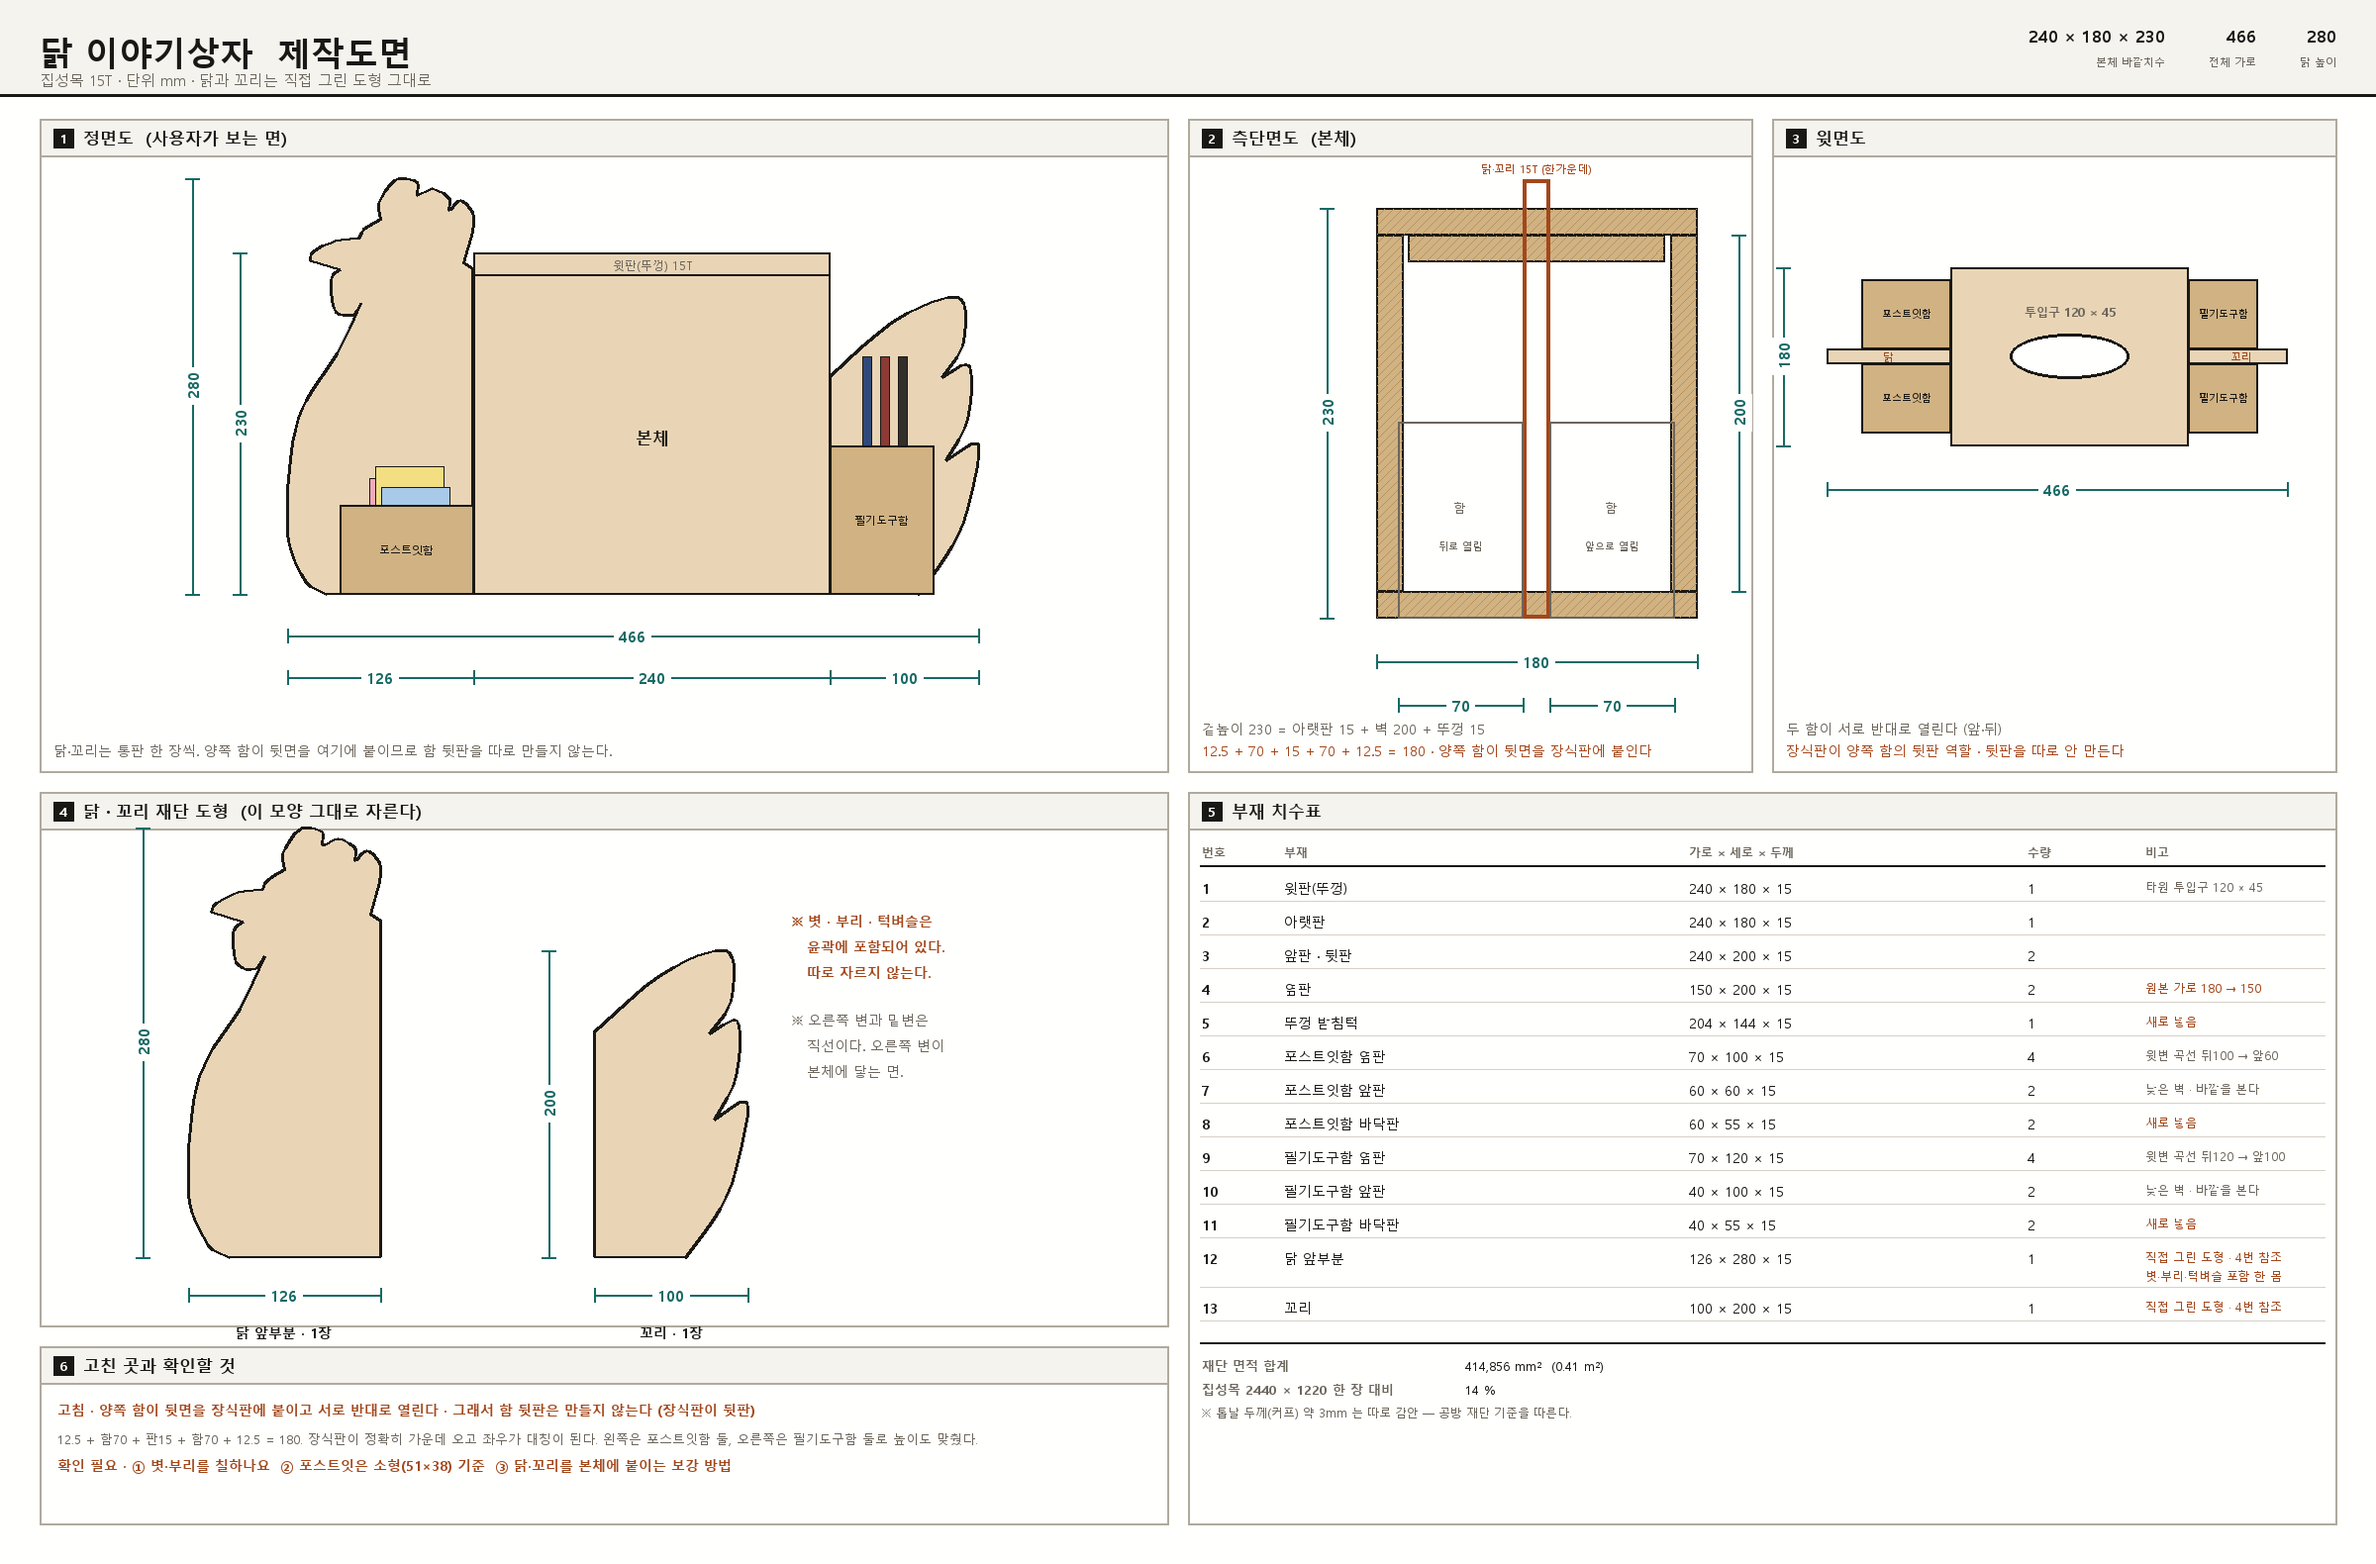
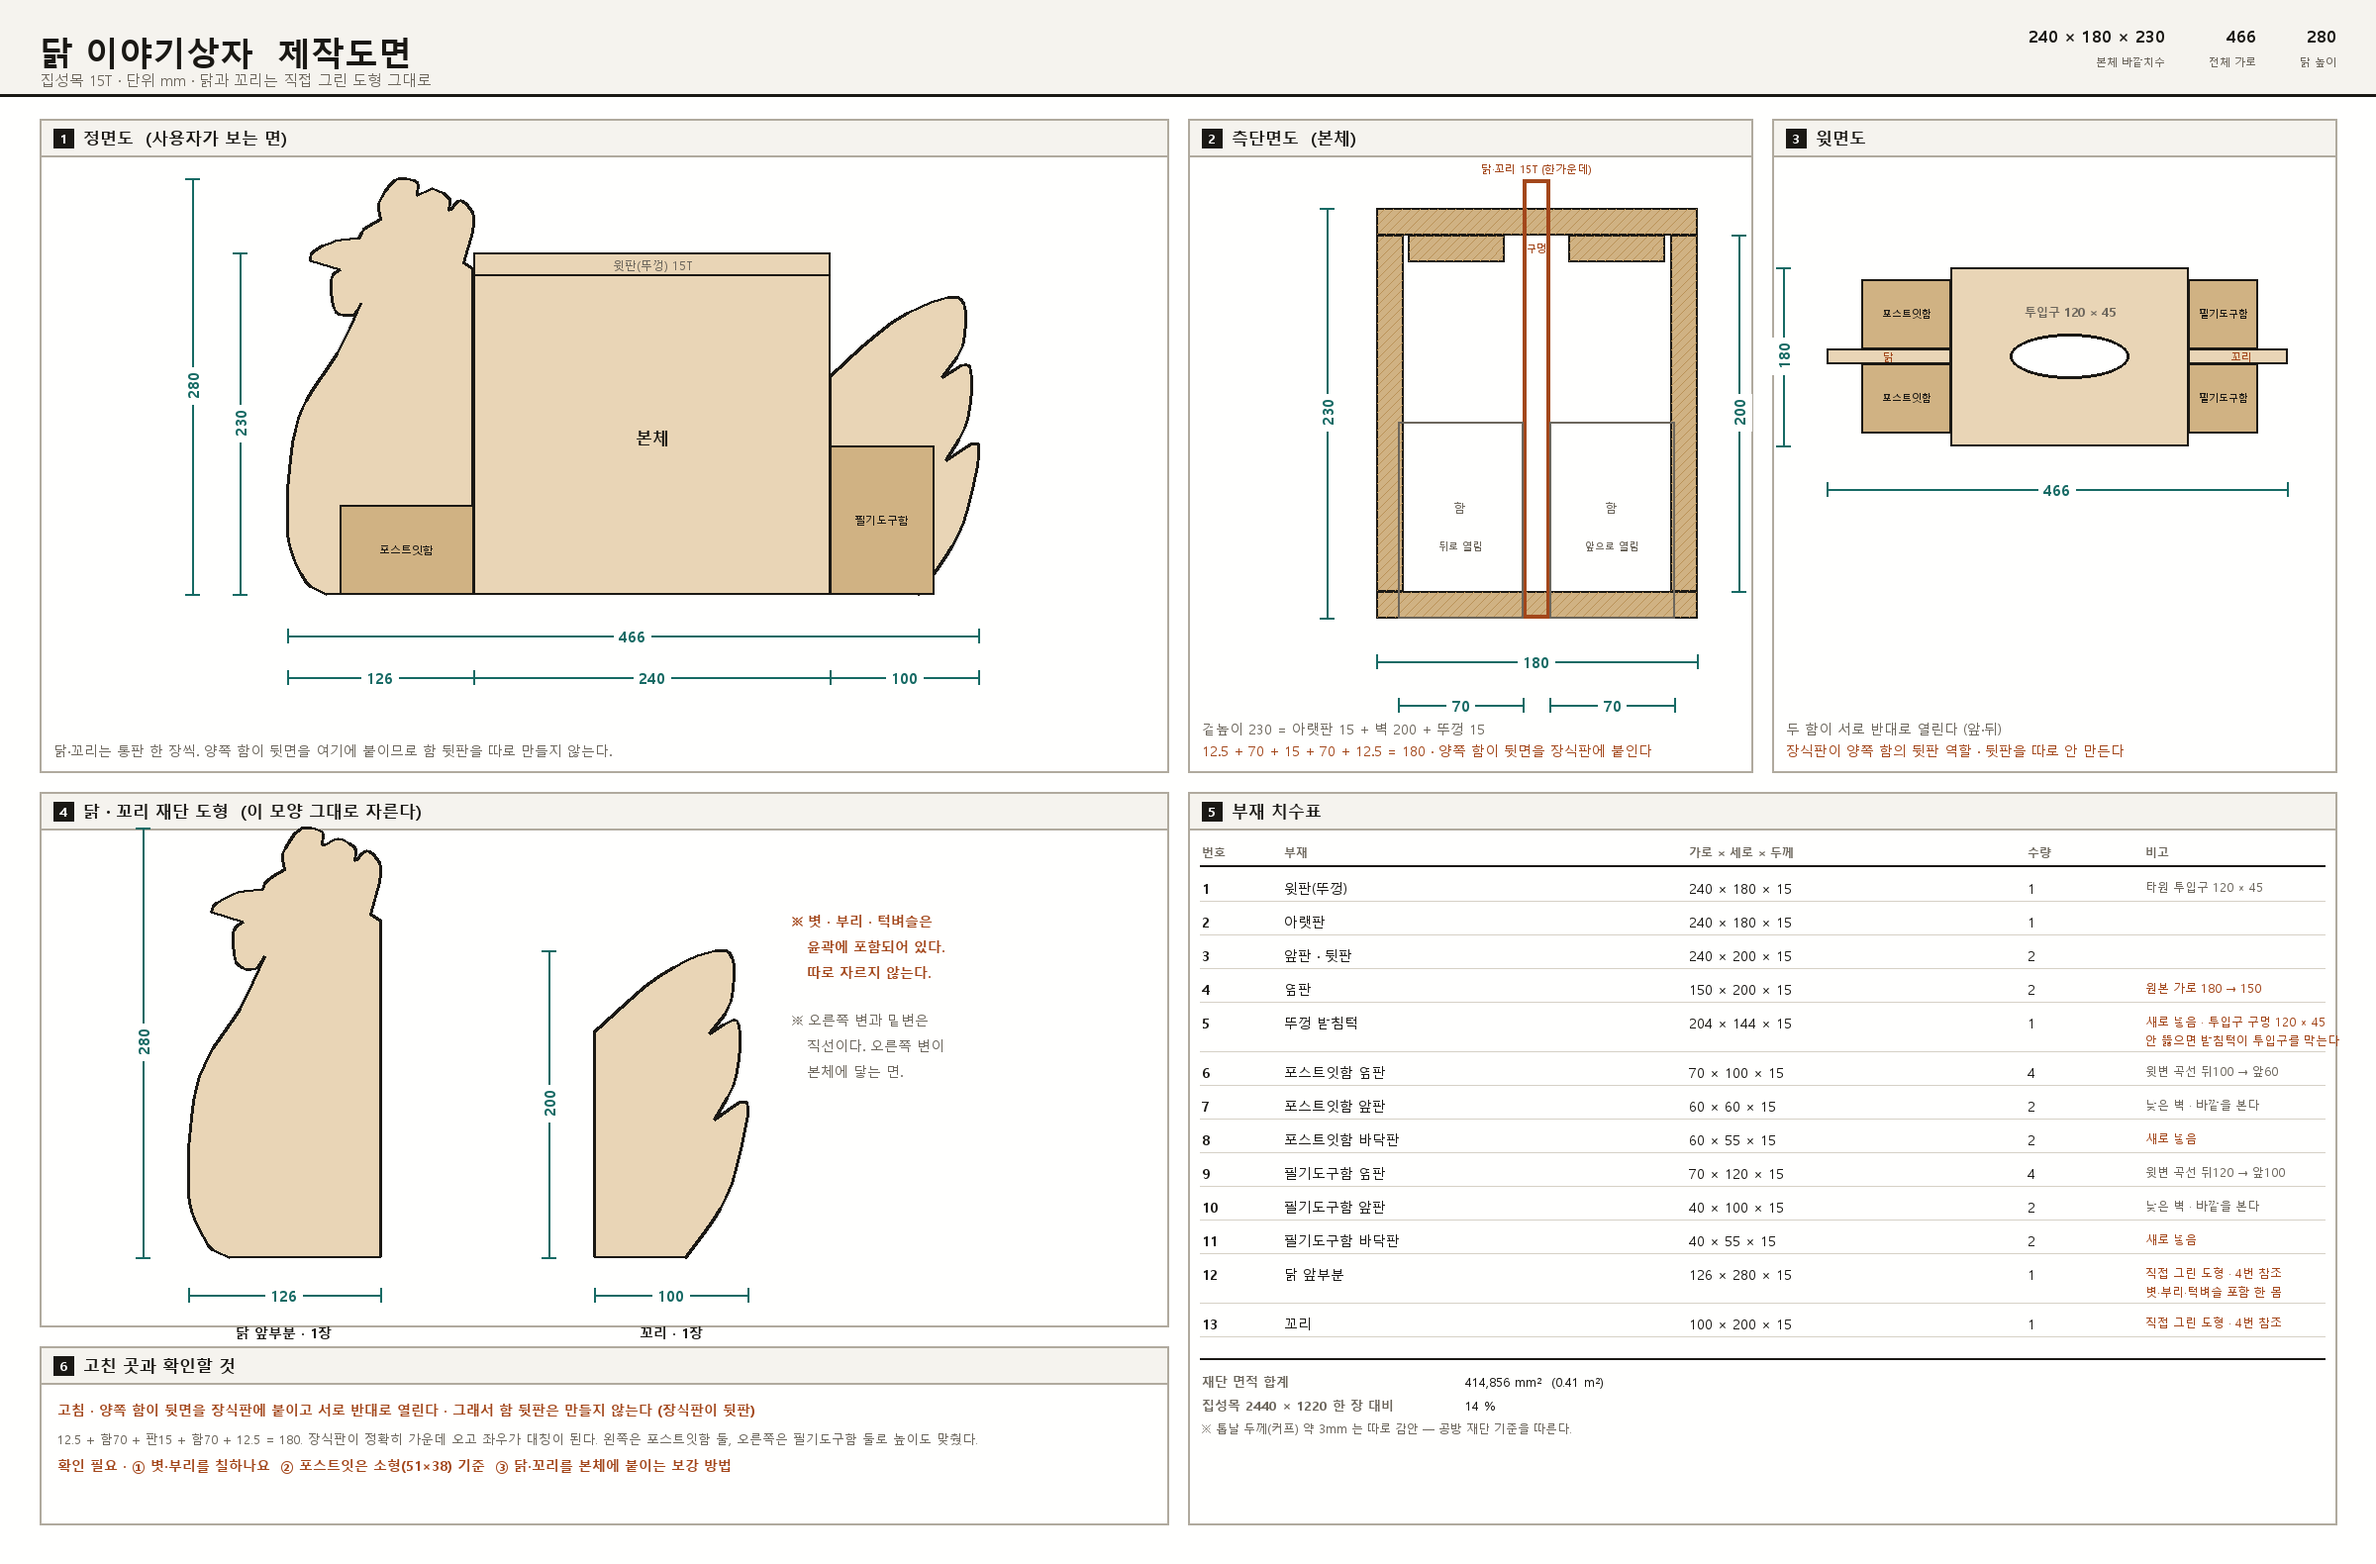
Add files via upload

diff --git a/index.html b/index.html
@@ -17,7 +17,7 @@
 <title>이야기상자와 서랍장</title>
 <link rel="preconnect" href="https://fonts.googleapis.com">
 <link rel="preconnect" href="https://fonts.gstatic.com" crossorigin>
-<link rel="stylesheet" href="https://fonts.googleapis.com/css2?family=Noto+Sans+KR:wght@400;500;700;900&family=IBM+Plex+Mono:wght@400;600&display=swap">
+<link rel="stylesheet" href="https://fonts.googleapis.com/css2?family=Noto+Sans+KR:wght@400;500;700;900&display=swap">
 <style>
   :root{
     --paper:#F1EFE9; --surface:#FAF9F6; --surface-2:#E9E6DE;
@@ -28,7 +28,7 @@
     --wood:#DFB983; --wood-dark:#A97C43;
     --shadow:0 1px 2px rgba(33,31,27,.06), 0 8px 24px -12px rgba(33,31,27,.18);
     --sans:"Noto Sans KR", system-ui, -apple-system, "Malgun Gothic", sans-serif;
-    --mono:"IBM Plex Mono", ui-monospace, "Consolas", monospace;
+    --mono:"Noto Sans KR", system-ui, sans-serif;   /* 0 안에 점이 없는 글꼴 */
   }
   @media (prefers-color-scheme: dark){
     :root:not([data-theme="light"]){
@@ -68,7 +68,7 @@
     border-radius:3px; overflow:hidden; background:var(--surface)}
   .spec div{padding:6px 12px; border-right:1px solid var(--rule)}
   .spec div:last-child{border-right:0}
-  .spec b{display:block; font-family:var(--mono); font-size:14px; font-weight:600}
+  .spec b{display:block; font-family:var(--mono); font-size:14px; font-weight:600; font-variant-numeric:tabular-nums}
   .spec span{display:block; font-size:10.5px; color:var(--ink-3); letter-spacing:.09em}
 
   .tabs{display:flex; gap:8px; margin:18px 0 0; flex-wrap:wrap}
@@ -95,7 +95,8 @@
     background:var(--surface); border:1px solid var(--rule); border-radius:3px;
     padding:4px 9px; pointer-events:none; opacity:.92}
   .lbl{position:absolute; transform:translate(-50%,-50%); pointer-events:none;
-    font-family:var(--mono); font-size:11.5px; font-weight:600; color:#fff;
+    font-family:var(--mono); font-size:11.5px; font-weight:700; color:#fff;
+    font-variant-numeric:tabular-nums;
     background:var(--accent); padding:1.5px 6px; border-radius:2px; white-space:nowrap;
     box-shadow:0 1px 4px rgba(0,0,0,.25)}
   .readout{position:absolute; left:12px; top:12px; max-width:64%;
@@ -103,7 +104,7 @@
     border-left:3px solid var(--accent); border-radius:3px; padding:8px 12px;
     pointer-events:none; opacity:.96}
   .readout .nm{font-weight:700; font-size:13.5px}
-  .readout .dm{font-family:var(--mono); font-size:12.5px; color:var(--ink-2); margin-top:1px}
+  .readout .dm{font-family:var(--mono); font-size:12.5px; color:var(--ink-2); margin-top:1px; font-variant-numeric:tabular-nums}
   .readout .nt{font-size:11.5px; color:var(--warn); margin-top:3px}
 
   .ctl{display:flex; flex-wrap:wrap; align-items:center; gap:10px 18px; margin-top:12px;
@@ -134,7 +135,7 @@
 
   .dims{display:grid; grid-template-columns:repeat(3,1fr); gap:1px; background:var(--rule)}
   .dims div{background:var(--surface); padding:11px 12px}
-  .dims b{display:block; font-family:var(--mono); font-size:19px; font-weight:600; letter-spacing:-.02em}
+  .dims b{display:block; font-family:var(--mono); font-size:19px; font-weight:600; letter-spacing:-.02em; font-variant-numeric:tabular-nums}
   .dims span{display:block; font-size:10.5px; color:var(--ink-3); letter-spacing:.09em; margin-top:1px}
 
   table{width:100%; border-collapse:collapse; font-size:12.5px}
@@ -147,7 +148,7 @@
   tbody tr:hover{background:var(--accent-soft)}
   tbody tr.on{background:var(--accent-soft); box-shadow:inset 3px 0 0 var(--accent)}
   td.n{font-family:var(--mono); white-space:nowrap; font-variant-numeric:tabular-nums}
-  td.q{font-family:var(--mono); text-align:right; white-space:nowrap}
+  td.q{font-family:var(--mono); text-align:right; white-space:nowrap; font-variant-numeric:tabular-nums}
   .chg{color:var(--warn); font-size:11px; display:block}
   .sub2{color:var(--ink-3); font-size:11px; display:block}
 
@@ -285,9 +286,7 @@ var T = 15;              // 집성목 두께
 var BEV = 1.1;           // 모서리 둥글리기
 
 /* 색: 나무 외에 칠하는 조각들 */
-var COL = { comb:0xC0442F, beak:0xE3A33C, eye:0x2E2722,
-            note1:0xF0A0B8, note2:0xF3DB80, note3:0xA6C8E8,
-            pen1:0x2F4A7A, pen2:0x8C3A34, pen3:0x33302C };
+var COL = { comb:0xC0442F, beak:0xE3A33C, eye:0x2E2722 };
 
 /* ===================================================================
    부재 정의. 여기 숫자만 고치면 3D·표·치수가 같이 바뀝니다.
@@ -317,7 +316,8 @@ function modelA(){
     p({id:9, g:G, n:"서랍 옆판",   cut:"80 × 71",  q:k?0:4, x:bx,      y:by+T, z:bz, w:T, h:dh-T, d:dd-T});
     p({id:9, g:G, n:"서랍 옆판",   cut:"80 × 71",  q:0,     x:bx+dw-T, y:by+T, z:bz, w:T, h:dh-T, d:dd-T});
     p({id:10,g:G, n:"서랍 뒷판",   cut:"236 × 71", q:k?0:2, x:bx+T, y:by+T, z:bz, w:dw-2*T, h:dh-T, d:T});
-    if(!k) p({id:0, g:G, n:"손잡이", cut:"60 × 16", q:2, x:bx+103, y:by+30, z:D, w:60, h:16, d:12, sub:"별도 · 나무 막대"});
+    if(!k) p({id:11, g:G, n:"서랍 손잡이", cut:"60 × 16", q:1, x:bx+103, y:by+30, z:D, w:60, h:16, d:T,
+              sub:"아래 서랍만 (위 서랍은 버닝 글씨)"});
   });
 
   return { key:"A", title:"서랍 2칸 수납장", parts:P, W:W, H:H, D:D,
@@ -351,6 +351,7 @@ function modelB(){
   p({id:5, g:"뚜껑", n:"윗판(뚜껑)", cut:"240 × 180", q:1, x:0, y:H-T, z:0, w:W, h:T, d:D,
      ellipse:[W/2, D/2, 120, 45], sub:"타원 투입구 120 × 45"});
   p({id:6, g:"뚜껑", n:"뚜껑 받침턱", cut:"204 × 144", q:1, x:18, y:H-2*T, z:18, w:204, h:T, d:144,
+     ellipse:[102, 72, 120, 45], sub:"투입구 구멍 120 × 45",
      chg:"새로 넣음 — 뚜껑이 안 밀리게"});
 
   /* 함 네 개 : 장식판을 가운데 두고 앞뒤로 하나씩.
@@ -376,13 +377,6 @@ function modelB(){
   caddy("필기도구함 (앞)",  11,   W,   40, 120, 100, 97.5, "필기도구함", false);
   caddy("필기도구함 (뒤)",  24,   W,   40, 120, 100, 12.5, "필기도구함", true);
 
-  [[110,78,"note1"],[124,86,"note2"],[138,72,"note3"]].forEach(function(s){
-    p({id:0, g:"포스트잇함 (앞)", n:"포스트잇", cut:"", q:0, x:-70, y:16, z:s[0], w:50, h:s[1], d:9,
-       r:2, col:COL[s[2]], decor:true, sub:"참고용 · 부재 아님"});
-  });
-  [[262,116,"pen1"],[274,134,"pen2"],[286,122,"pen3"]].forEach(function(s){
-    p({id:0, g:"필기도구함 (앞)", n:"펜", cut:"", q:0, x:s[0], y:15, z:s[1], cyl:[4,150], col:COL[s[2]], decor:true, sub:"참고용 · 부재 아님"});
-  });
 
   /* 닭 앞부분 · 꼬리 : 직접 그린 도형 그대로. 함들보다 뒤(z 5~20)에 선다 */
   p({id:13,g:"닭 앞부분", n:"닭 앞부분", cut:"126 × 280", q:1,
@@ -402,7 +396,8 @@ function modelB(){
       ["고침","<b>닭 앞부분과 꼬리를 직접 그린 도형으로 바꿨습니다.</b> 볏·부리·턱벼슬이 한 몸이라 따로 붙일 것도, 어긋날 것도 없습니다."],
       ["고침","<b>장식판을 가운데 두고 양쪽 함이 뒷면을 거기에 붙입니다.</b> 서로 반대로 열려서 좌우 대칭이 됩니다. <span class='num'>12.5+70+15+70+12.5=180</span>."],
       ["고침","<b>뒷판을 없앴습니다.</b> 장식판이 양쪽 함의 뒷판 역할을 하므로 따로 만들 필요가 없습니다."],
-      ["고침","<b>함의 앞판이 정면(사용자 쪽)을 봅니다.</b> 포스트잇과 펜이 앞에서 보입니다."],
+      ["고침","<b>뚜껑 받침턱에도 투입구 구멍을 뚫었습니다.</b> 안 뚫으면 받침턱이 투입구를 막습니다."],
+      ["고침","<b>함의 앞판은 낮은 벽입니다.</b> 안에 든 것이 위와 바깥에서 보입니다."],
       ["고침","<b>옆판 가로 180 → 150</b> · <b>뚜껑 받침턱과 함 바닥판</b>을 새로 넣었습니다."],
       ["유지","본체 <span class='num'>240 × 180 × 230</span>, 타원 투입구 <span class='num'>120 × 45</span>, 함 옆판 <span class='num'>70</span>·앞판 <span class='num'>60/40</span> 은 손도면 그대로입니다."]
     ],
@@ -767,11 +762,11 @@ function select(m){
   ro.innerHTML='<div class="nm">'+p.n+(p.sub?' <span style="font-weight:400;color:var(--ink-2)">'+p.sub+'</span>':'')+'</div>'+
     '<div class="dm">'+(p.cut? p.cut+' × '+T+'T' : '참고용 모형')+'  ·  묶음: '+p.g+'</div>'+
     (p.chg?'<div class="nt">고침 — '+p.chg+'</div>':'');
-  markRow(p.id); markChip(p.g);
+  markRow(keyOf(p)); markChip(p.g);
 }
-function markRow(id){
+function markRow(k){
   [].forEach.call(document.querySelectorAll("#tb tr"),function(tr){
-    tr.classList.toggle("on", id!=null && tr.dataset.id===String(id));
+    tr.classList.toggle("on", k!=null && tr.dataset.k===k);
   });
 }
 function markChip(g){
@@ -801,20 +796,25 @@ function renderGroups(){
 }
 
 /* ---- 표 ---- */
+function keyOf(p){ return p.n + "|" + p.cut; }
 function renderTable(){
   var tb=document.getElementById("tb"); tb.innerHTML="";
-  var seen={};
-  model.parts.forEach(function(p){
+  var rows=[], at={};
+  model.parts.forEach(function(p){                 // 같은 이름·같은 치수는 한 줄로 합친다
     if(!p.q || !p.cut) return;
-    if(seen[p.id]) return; seen[p.id]=1;
-    var tr=document.createElement("tr"); tr.dataset.id=p.id;
-    tr.innerHTML='<td class="n">'+p.id+'</td><td>'+p.n+
-      (p.chg?'<span class="chg">고침 — '+p.chg+'</span>':'')+
-      (p.sub?'<span class="sub2">'+p.sub+'</span>':'')+
-      '</td><td class="n">'+p.cut+' × '+T+'</td><td class="q">'+p.q+'</td>';
+    var k=keyOf(p);
+    if(at[k]==null){ at[k]=rows.length; rows.push({k:k,n:p.n,cut:p.cut,q:0,chg:p.chg,sub:p.sub}); }
+    rows[at[k]].q += p.q;
+  });
+  rows.forEach(function(r,i){                      // 번호는 1부터 차례대로
+    var tr=document.createElement("tr"); tr.dataset.k=r.k;
+    tr.innerHTML='<td class="n">'+(i+1)+'</td><td>'+r.n+
+      (r.chg?'<span class="chg">고침 — '+r.chg+'</span>':'')+
+      (r.sub?'<span class="sub2">'+r.sub+'</span>':'')+
+      '</td><td class="n">'+r.cut+' × '+T+'</td><td class="q">'+r.q+'</td>';
     tr.onclick=function(){
       var m=null;
-      meshes.forEach(function(x){ if(!m && x.userData.p.id===p.id) m=x; });
+      meshes.forEach(function(x){ if(!m && keyOf(x.userData.p)===r.k) m=x; });
       select(m);
     };
     tb.appendChild(tr);
@@ -897,7 +897,10 @@ function tick(){
   requestAnimationFrame(tick);
 }
 
-resize(); build("A"); tick();
+resize();
+var startModel = (new URLSearchParams(location.search).get("m")==="B") ? "B" : "A";
+if(startModel==="B"){ tabs[0].setAttribute("aria-selected","false"); tabs[1].setAttribute("aria-selected","true"); }
+build(startModel); tick();
 document.getElementById("stamp").textContent="2026-09-15 작성";
 
 /* ---- 프레임 촬영용. 주소에 ?shot=1 이 붙었을 때만 돈다 ---- */
